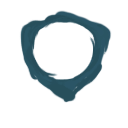
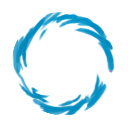
:sparkles: 平衡性调整; 更换能量资源图

diff --git a/src/main/java/sxy/apin/modcore/FurinaCore.java b/src/main/java/sxy/apin/modcore/FurinaCore.java
@@ -178,7 +178,7 @@ public class FurinaCore implements EditCardsSubscriber, EditStringsSubscriber, E
     public void receiveEditKeywords() {
         BaseMod.addKeyword("furina_mod", "普世欢腾", new String[]{"普世欢腾"}, "受到伤害或治疗时获得3层 #y气氛值 。");
         BaseMod.addKeyword("furina_mod", "芒荒能量", new String[]{"芒荒能量", "芒性能量", "荒性能量"}, "同时具有芒性能量和荒性能量时会引发芒荒过载：给予玩家1点能量和 #y元素能量 。");
-        BaseMod.addKeyword("furina_mod", "气氛值", new String[]{"气氛值"}, "提高部分伤害或治疗效果。如无特殊说明每生效1次消耗1层。");
+        BaseMod.addKeyword("furina_mod", "气氛值", new String[]{"气氛值"}, "提高部分伤害或治疗效果。每回合结束时消耗10%。");
         BaseMod.addKeyword("furina_mod", "元素能量", new String[]{"元素能量"}, "特定牌打出需要消耗一定的元素能量。");
         BaseMod.addKeyword("furina_mod", "始基力", new String[]{"始基力", "始基力形态", "芒荒形态"}, "芙宁娜拥有荒芒两种始基力形态，可通过特定牌切换自身的始基力形态。部分牌在不同始基力形态下有不同效果。");
         BaseMod.addKeyword("furina_mod", "会心", new String[]{"会心"}, "每打出一张攻击牌获得1层 #y会心 ，受到一次伤害消除2层 #y会心 。回合结束时对最近敌人造成 #y会心 层数的伤害。");

diff --git a/src/main/java/sxy/apin/cards/rare/Banquet.java b/src/main/java/sxy/apin/cards/rare/Banquet.java
@@ -27,7 +27,6 @@ public class Banquet extends CustomCard {
 
     public Banquet() {
         super(ID, NAME, IMG_PATH, COST, DESCRIPTION, TYPE, COLOR, RARITY, TARGET);
-        this.updateCost(-1);
         this.exhaust = true;
     }
 
@@ -35,6 +34,7 @@ public class Banquet extends CustomCard {
     public void upgrade() {
         if (!this.upgraded) {
             this.upgradeName();
+            this.updateCost(-1);
         }
         this.rawDescription = CARD_STRINGS.UPGRADE_DESCRIPTION;
         this.initializeDescription();

diff --git a/src/main/java/sxy/apin/power/Revelry.java b/src/main/java/sxy/apin/power/Revelry.java
@@ -97,6 +97,16 @@ public class Revelry extends AbstractPower {
         }
     }
 
+    @Override
+    public void atEndOfTurn(boolean isPlayer) {
+        if (isPlayer) {
+            if (FurinaHelper.hasPower(FrozenPower.POWER_ID)) {
+                return;
+            }
+            this.amount -= this.amount / 10;
+        }
+    }
+
     // 能力在更新时如何修改描述
     public void updateDescription() {
         this.description = DESCRIPTIONS[0];

diff --git a/src/main/java/sxy/apin/cards/basic/ChargedAttack.java b/src/main/java/sxy/apin/cards/basic/ChargedAttack.java
@@ -67,7 +67,6 @@ public class ChargedAttack extends CustomCard {
                         new DamageInfo(abstractPlayer, damage + extraDamage, DamageInfo.DamageType.NORMAL)
                 )
         );
-        Furina.consumeRevelry(1);
         Furina.gainElementEnergy(1);
         AbstractDungeon.actionManager.addToBottom(
                 new MakeTempCardInHandAction(new SeatsSacredAndSecular(), 1)

diff --git a/src/main/java/sxy/apin/cards/uncommon/Equity.java b/src/main/java/sxy/apin/cards/uncommon/Equity.java
@@ -14,7 +14,7 @@ import sxy.apin.helper.FurinaHelper;
 import static sxy.apin.character.Furina.Enums.FURINA_BLUE;
 
 /**
- * 公平 0费  4伤  将1张弃牌堆中的牌加入手牌。
+ * 公平 0费  4伤  将 !M! 张弃牌堆中的牌加入手牌。
  */
 public class Equity extends CustomCard {
     public static final String ID = FurinaHelper.makeCardID(Equity.class.getSimpleName());

diff --git a/src/main/java/sxy/apin/cards/uncommon/LaLettreAFocalors.java b/src/main/java/sxy/apin/cards/uncommon/LaLettreAFocalors.java
@@ -50,6 +50,5 @@ public class LaLettreAFocalors extends CustomCard {
         AbstractDungeon.actionManager.addToBottom(
                 new HealAction(abstractPlayer, abstractPlayer, this.baseHeal + extraHealth)
         );
-        Furina.consumeRevelry(1);
     }
 }

diff --git a/src/main/java/sxy/apin/power/SingerOfManyWatersPower.java b/src/main/java/sxy/apin/power/SingerOfManyWatersPower.java
@@ -89,6 +89,5 @@ public class SingerOfManyWatersPower extends AbstractPower {
         AbstractDungeon.actionManager.addToBottom(
                 new HealAction(player, player, (int) (revelry * factor / 2))
         );
-        Furina.consumeRevelry(1);
     }
 }
